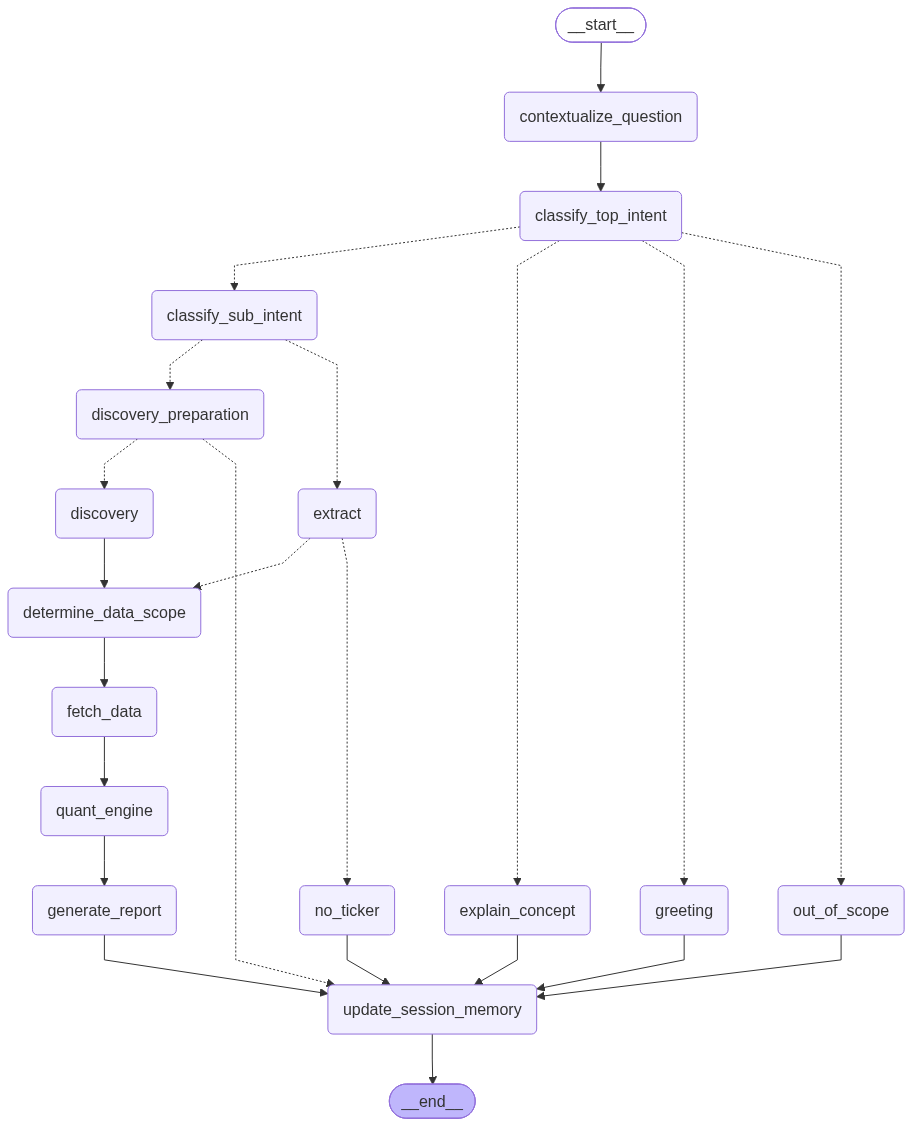
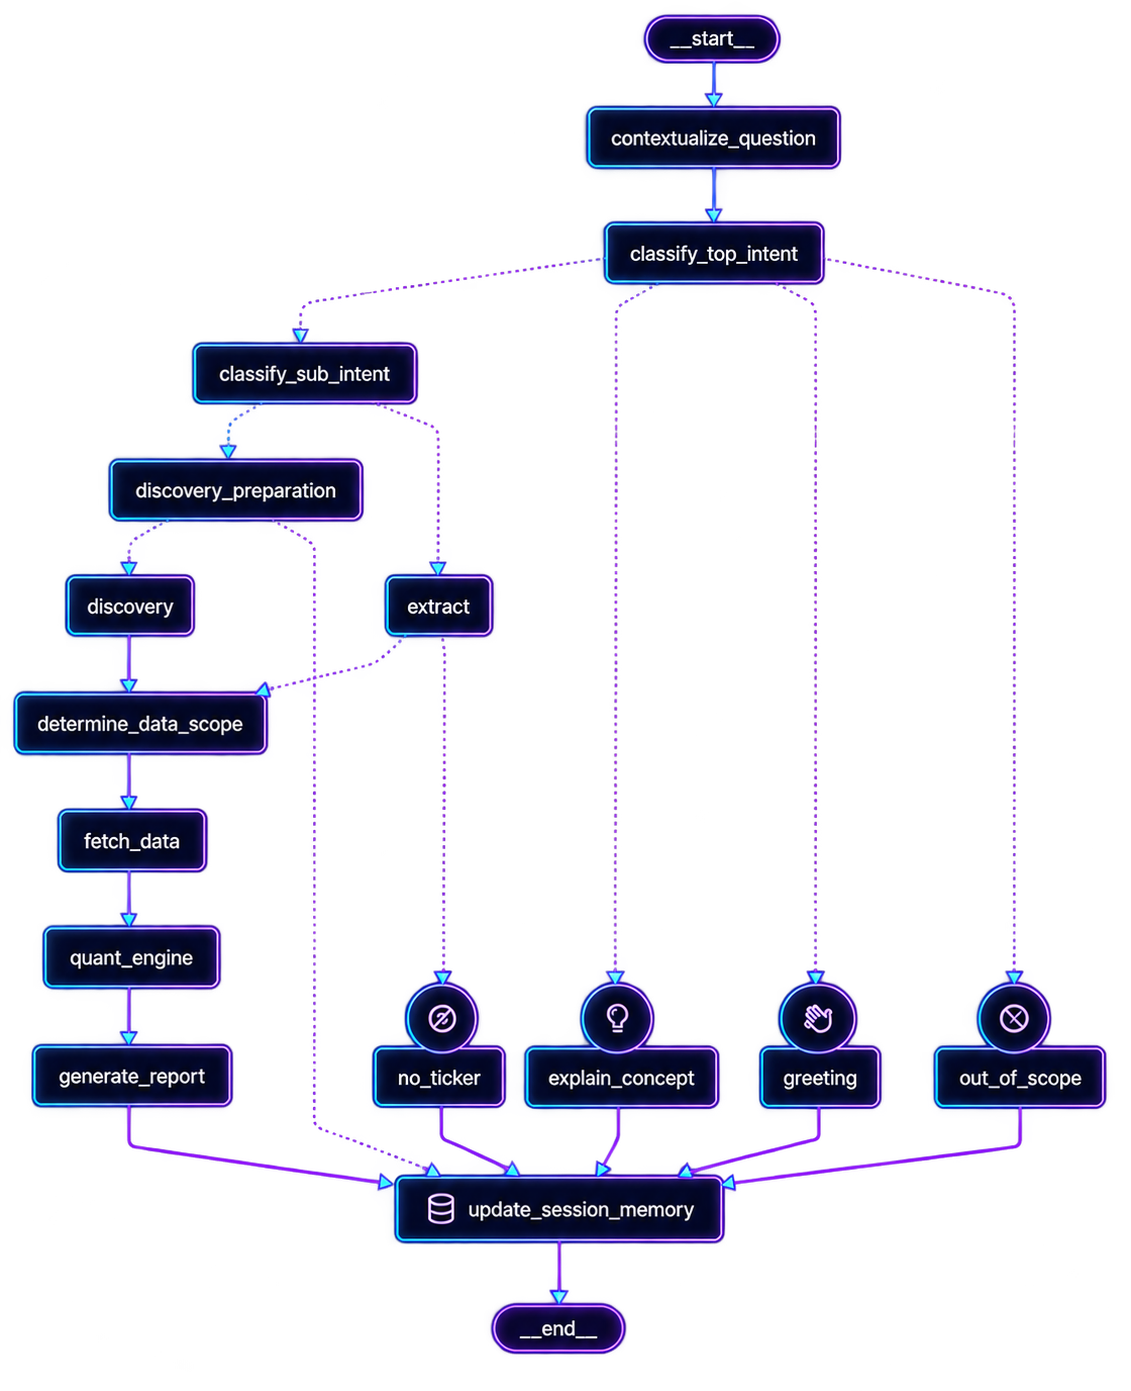
Restyle graph image, restructure README layout section

diff --git a/README.md b/README.md
@@ -34,10 +34,16 @@ Every request enters the graph at `contextualize_question` and leaves at
 `update_session_memory`. Between those two, the route depends on what the
 question turns out to be.
 
-![Agent graph](docs/img/graph.png)
+<p align="center">
+  <img src="docs/img/graph.png" width="720">
+</p>
 
-Regenerate after changing the graph — the image is rendered from
-`graph.py` itself, so it cannot drift from the code:
+<p align="center">
+  <em>Figure 1. The agent graph, rendered from <code>graph.py</code>.</em>
+</p>
+
+Regenerate after changing the graph — the image comes from the compiled graph
+itself, so it cannot drift from the code:
 
 ```bash
 python3 -c "
@@ -46,9 +52,9 @@ open('docs/img/graph.png','wb').write(equitymind_graph.get_graph().draw_mermaid_
 "
 ```
 
-`draw_mermaid_png()` renders through mermaid.ink, so it needs network
-access. `draw_mermaid()` returns the diagram source as text instead, which
-can be pasted into any Mermaid renderer.
+`draw_mermaid_png()` renders through mermaid.ink and needs network access.
+`draw_mermaid()` returns the diagram source as text instead, which can be
+pasted into any Mermaid renderer.
 
 Four things about this shape are worth knowing before changing it.
 
@@ -82,57 +88,116 @@ on every path, not only the analytical ones.
 
 ---
 
-## Layout
+## Project Structure
 
+```bash
+equitymind-core/
+├── api/                                   # FastAPI app — all routes under /api/v1
+│   ├── main.py                            # app setup, router registration
+│   ├── auth.py                            # API key verification
+│   ├── schemas.py                         # request / response models
+│   └── routes/
+│       ├── query.py                       # WS   /query/stream — main path, streams tokens
+│       ├── research.py                    # POST /query/sync — blocking, for batch scripts
+│       ├── pipeline.py                    # /internal/run-pipeline/* — what Kestra calls
+│       └── health.py                      # GET  /health
+├── core/                                  # cross-layer plumbing — imports nothing from api/ or src/
+│   └── context.py                         # per-request token queue (ContextVar)
+├── src/
+│   ├── agent/
+│   │   ├── graph.py                       # graph construction and routing
+│   │   ├── state.py                       # AgentState (TypedDict)
+│   │   ├── capabilities.py                # capability list shared by the three handlers
+│   │   ├── discovery_types.py             # DiscoveryQuery, RankField, field vocabulary
+│   │   ├── nodes_notifications.py         # per-node progress strings
+│   │   ├── nodes/
+│   │   │   ├── contextualize_question.py  # rewrite the question from session history
+│   │   │   ├── classify_top_intent.py     # TASK / CONCEPT / GREETING / OUT_OF_SCOPE
+│   │   │   ├── classify_sub_intent.py     # DISCOVERY / SPECIFIC_STOCK / COMPARISON / ...
+│   │   │   ├── discovery_preparation.py   # the gate — parse, or ask for a rankable field
+│   │   │   ├── discovery_execution.py     # multi-stage ranked filtering, discovery note
+│   │   │   ├── discovery_counts.py        # how many tickers each stage passes on
+│   │   │   ├── extract_tickers.py         # ticker(s) from the question
+│   │   │   ├── determine_data_scope.py    # which of the nine sources this question needs
+│   │   │   ├── fetch_data.py              # retrieve only what the scope named
+│   │   │   ├── quant_engine.py            # run the signals over fetched data
+│   │   │   ├── generate_report.py         # the answer — streamed, seven display rules
+│   │   │   ├── explain_concept.py         # general finance questions
+│   │   │   ├── handle_greeting.py         # greeting + what the system can do
+│   │   │   ├── handle_no_ticker.py        # no company could be identified
+│   │   │   ├── handle_out_of_scope.py     # outside equities research
+│   │   │   └── update_session_memory.py   # terminal node on every path
+│   │   └── formatters/                    # retrieved data -> prompt text, one per source
+│   │       ├── snapshot_formatter.py
+│   │       ├── valuation_formatter.py
+│   │       ├── momentum_formatter.py
+│   │       ├── risk_formatter.py
+│   │       ├── quality_formatter.py
+│   │       ├── consensus_formatter.py
+│   │       ├── short_formatter.py
+│   │       ├── news_sentiment_formatter.py
+│   │       ├── sec_formatter.py
+│   │       ├── financial_history_formatter.py
+│   │       ├── quant_signals_formatter.py
+│   │       └── conversation_formatter.py
+│   ├── quant/                             # signal computation — pure functions, no I/O
+│   │   ├── valuation_signal.py            # P/E, P/B against the FMP peer median
+│   │   ├── momentum_signal.py             # 12-1 momentum, 52-week position
+│   │   ├── risk_signal.py                 # beta, Sharpe, VaR, max drawdown
+│   │   ├── quality_signal.py              # Piotroski F-Score
+│   │   ├── consensus_signal.py            # analyst ratings and target prices
+│   │   ├── short_signal.py                # short interest, days to cover
+│   │   ├── news_sentiment_signal.py       # FinBERT — never cached, always live
+│   │   └── *_signal_config.py             # thresholds for risk / quality / consensus / short
+│   ├── readers/                           # data access — one reader per source or table
+│   │   ├── snapshot_reader.py
+│   │   ├── valuation_reader.py
+│   │   ├── momentum_reader.py
+│   │   ├── risk_reader.py
+│   │   ├── quality_reader.py
+│   │   ├── consensus_reader.py
+│   │   ├── short_reader.py
+│   │   ├── news_reader.py
+│   │   ├── sec_reader.py
+│   │   └── financial_history_reader.py
+│   └── sec_pipeline/                      # 10-K ingestion
+│       ├── sec_downloader.py              # fetch and section a filing
+│       ├── sec_types.py                   # chunk types
+│       ├── embedder.py                    # OpenAI embeddings
+│       └── pgvector_store.py              # write and query sec_chunks
+├── scripts/
+│   ├── init_db_*.py                       # schema creation, five tables, idempotent
+│   ├── build_stock_universe.py            # 1. membership, market cap, company name
+│   ├── update_common_names.py             # 2. short news-headline name
+│   ├── update_peer_groups.py              # 3. FMP peer group
+│   ├── update_stock_overviews.py          # 4. 10-K Item 1 -> business overview
+│   ├── update_industry_tags.py            # 5. overview -> industry tags
+│   ├── update_momentum_benchmarks.py      # 6. momentum, 52-week position
+│   ├── update_financial_history.py        # 7. 33 metrics, annual + quarterly
+│   ├── update_quant_signals.py            # 8. six signals, precomputed
+│   └── filing_check.py                    # shared module, not a pipeline step
+├── docs/
+│   ├── data-pipeline-reference.md         # authoritative pipeline documentation
+│   ├── img/graph.png                      # generated from graph.py
+│   └── kestra/                            # copy of the flow definition — not the live one
+├── tests/
+│   ├── test_quant.py                      # signal functions
+│   ├── test_nodes.py                      # graph nodes
+│   ├── test_api.py                        # HTTP layer
+│   └── websocket_debug_tool.py            # exercise the streaming path without a browser
+├── config.py                              # model names, env vars, tuning constants
+├── colors.py                              # gprint / mprint — coloured node output
+├── conftest.py                            # pytest configuration
+├── railway.toml                           # deployment configuration
+└── requirements.txt
 ```
-api/            FastAPI application, all routes under /api/v1
-  routes/
-    query.py        WS   /query/stream         main path, streams tokens
-    research.py     POST /query/sync           same graph, one blocking
-                                               response. Used by the batch
-                                               experiment scripts.
-    pipeline.py     POST /internal/run-pipeline/{script_name}
-                    GET  /internal/run-pipeline/{run_id}
-                                               what Kestra calls. Guarded by
-                                               the x-pipeline-secret header
-                                               and an ALLOWED_SCRIPTS
-                                               whitelist.
-    health.py       GET  /health
-  auth.py       API key verification
-  schemas.py    Request/response models
 
-core/           Cross-layer plumbing. Imports nothing from api/ or src/.
-  context.py      ContextVar carrying the per-request token queue, so agent
-                  nodes can stream tokens out to a WebSocket handler in
-                  another layer without putting live objects in AgentState.
-
-src/
-  agent/
-    graph.py            Graph construction and routing
-    state.py            AgentState (TypedDict)
-    capabilities.py     Shared capability list for the three conversational
-                        handlers, phrased as copyable example questions
-    nodes_notifications.py  Progress strings pushed to the client per node
-    discovery_types.py  DiscoveryQuery, RankField, the valid field vocabulary
-    nodes/              One file per node. Nodes own progress notifications
-                        and state; they call readers and quant functions but
-                        contain no retrieval or maths themselves.
-    formatters/         Turn retrieved data into the text blocks that go into
-                        the report prompt. One per signal or data source.
-  quant/          Signal computation. Pure functions over already-fetched
-                  data — no database, no LangGraph, no network.
-  readers/        Data access. One reader per source/table.
-  sec_pipeline/   10-K download, chunking, embedding, pgvector storage
-
-scripts/        Database initialisation and the eight daily pipeline scripts.
-                filing_check.py is NOT a script — it is a shared module
-                (is_usd_reporter, files_20f_only) that build_stock_universe.py
-                and update_peer_groups.py import.
-docs/           Pipeline reference and a copy of the Kestra flow definition
-tests/          pytest suite, plus a WebSocket debug client
-config.py       Model names, environment variables, tuning constants
-colors.py       gprint / mprint — coloured console output used by nodes
-```
+Nodes are listed in the order a request passes through them, not
+alphabetically. The eight numbered scripts run in that order daily; only three
+of those orderings are load-bearing (see below). `filing_check.py` sits among
+them but is not a pipeline step — it is a shared module (`is_usd_reporter`,
+`files_20f_only`) that keeps the universe to US-reporting, 10-K-filing
+companies.
 
 The `agent → readers → quant → formatters` separation is deliberate and load
 bearing: **RAG handles fact retrieval, quant handles signal computation, and
@@ -320,37 +385,3 @@ Established over the life of the project, and worth keeping:
 - Code and comments in English throughout.
 - Patches are applied as Python here-documents with an `assert old in s` guard
   and an immediate `ast.parse` check.
-
----
-
-## Not in this repository
-
-`research/` is local-only and not committed. It holds the experiment scripts,
-frozen baselines and result files behind the design decisions above —
-including the embedding snapshot taken before `overview_embedding` was dropped,
-which is the only copy that exists.
-
-<!--
-Known documentation drift, found 2026-08-28. None of it affects behaviour;
-all of it misleads a reader:
-
-- init_db_stock_universe.py says the table is updated "every few months" —
-  daily since 2026-08-14.
-- filing_check.py says files_20f_only serves "sector overview embeddings" —
-  embeddings were dropped 2026-08-17; the real reason is that a 20-F has no
-  Item 1 to summarise at all.
-- update_momentum_benchmarks.py suggests running monthly and refers to
-  peer_benchmarks.json, which no longer exists.
-- update_common_names.py says it does not touch updated_at; that column was
-  dropped 2026-08-17.
-- init_db_quant_signals.py says quality_period_end lets the updater skip
-  recomputing Quality — that skip was removed 2026-08-10 and every ticker is
-  recomputed on every run.
-
-Also worth a look: update_common_names.py uses LLM_MODEL for
-"Tesla, Inc." -> "Tesla". update_industry_tags.py uses LLM_MODEL_LIGHT for a
-comparable restatement task and says why. If the difference is unintentional,
-the light model is the right one here.
-
-Delete this comment block once the above are addressed or recorded elsewhere.
--->
